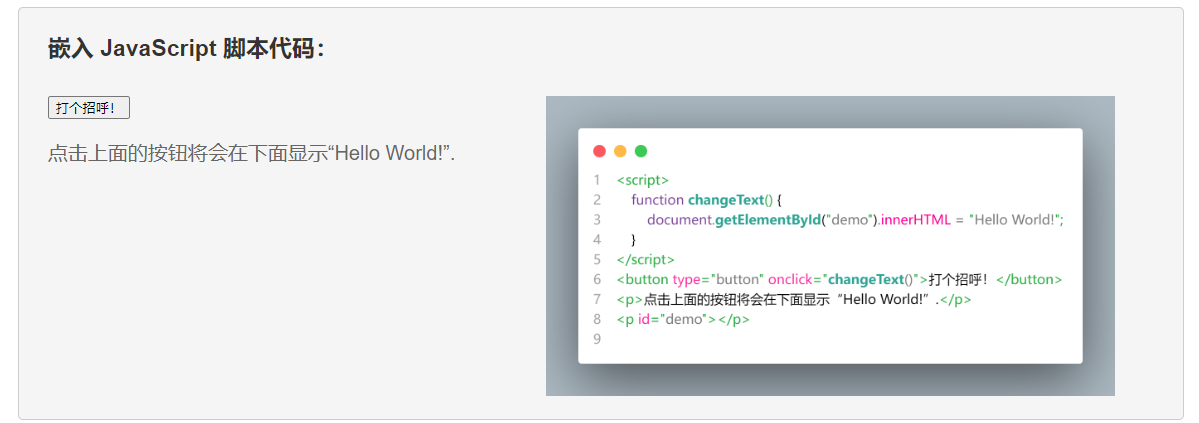
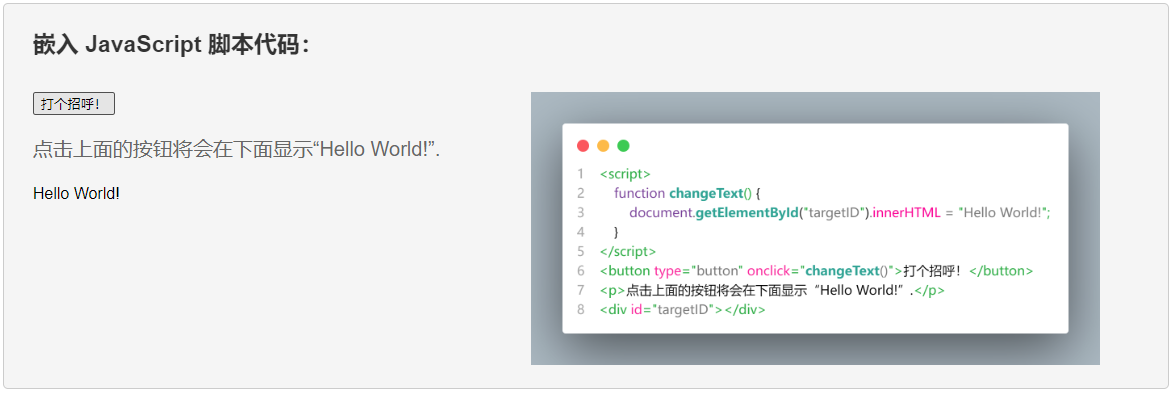
'整理与HTML+CSS基础相关的笔记：HTML部分'

diff --git a/Programming/Client-Server/TheBasic/HTML&CSS/examples/embedCase/index.htm b/Programming/Client-Server/TheBasic/HTML&CSS/examples/embedCase/index.htm
@@ -123,12 +123,13 @@
                 <div class="example">
                     <script>
                         function changeText() {
-                          document.getElementById("demo").innerHTML = "Hello World!";
+                            document.getElementById("targetID").innerHTML
+                                = "Hello World!";
                         }
                     </script>
                     <button type="button" onclick="changeText()">打个招呼！</button>
                     <p>点击上面的按钮将会在下面显示“Hello World!”.</p>
-                    <p id="demo"></p>
+                    <div id="targetID"></div>
                 </div>                
                 <div class="code">
                     <img src="./res/img/jscode.png">
